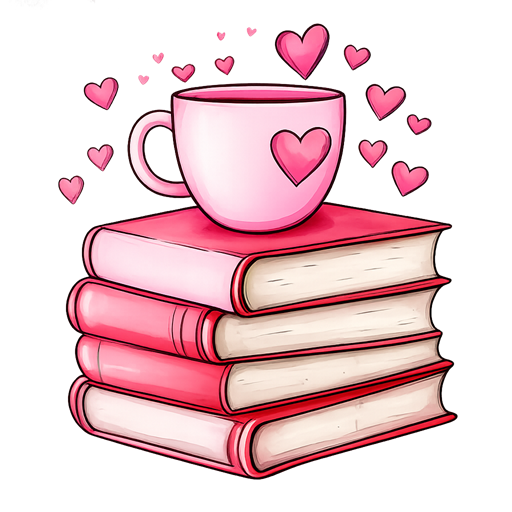
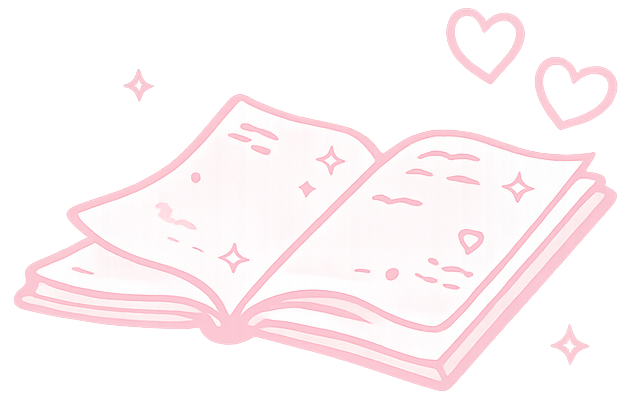
feat: implement GameMissions component for daily word search activity with fallback image handling

diff --git a/src/components/GameMissions.tsx b/src/components/GameMissions.tsx
@@ -16,10 +16,19 @@ import {
 } from "lucide-react";
 import { getDailyGamesState } from "@/lib/games";
 import type { WordSearchDifficulty } from "@/lib/wordSearchGenerator";
-import { getClubAssetUrl } from "@/lib/urls";
+import { getClubAssetUrl, getClubUrl } from "@/lib/urls";
 
 const GAME_IMAGE_PATH = "public/cacapalavras.png";
-const GAME_IMAGE = getClubAssetUrl(GAME_IMAGE_PATH);
+
+const IMAGE_FALLBACKS = [
+  getClubAssetUrl(GAME_IMAGE_PATH),
+  getClubUrl("cacapalavras.png"),
+  "/clubedascolecionadoras/cacapalavras.png",
+  "/cacapalavras.png",
+  "public/cacapalavras.png",
+  "/public/cacapalavras.png",
+  "cacapalavras.png",
+];
 
 const UPCOMING = [
   { name: "Jogo da Memória", description: "Encontre os pares de figurinhas.", Icon: Grid3X3 },
@@ -56,6 +65,16 @@ export default function GameMissions() {
   const [showRules, setShowRules] = useState(false);
   const [carouselIndex, setCarouselIndex] = useState(0);
   const [carouselPaused, setCarouselPaused] = useState(false);
+  const [imgIndex, setImgIndex] = useState(0);
+  const [imgError, setImgError] = useState(false);
+
+  const handleImgError = () => {
+    if (imgIndex < IMAGE_FALLBACKS.length - 1) {
+      setImgIndex((prev) => prev + 1);
+    } else {
+      setImgError(true);
+    }
+  };
 
   useEffect(() => {
     let active = true;
@@ -115,12 +134,18 @@ export default function GameMissions() {
       </div>
 
       <article className="relative overflow-hidden rounded-[28px] border border-pink-300/80 bg-gradient-to-br from-white via-[#fffafd] to-[#fff0f7] p-5 shadow-[0_12px_35px_rgba(158,27,74,0.09)] dark:from-[#1a0718] dark:via-[#180615] dark:to-[#22091b] sm:p-7 lg:p-8">
-        <img
-          src={GAME_IMAGE}
-          alt=""
-          aria-hidden="true"
-          className="game-mission-hero-image absolute right-3 top-3 h-[112px] w-[112px] object-contain"
-        />
+        {!imgError ? (
+          <img
+            src={IMAGE_FALLBACKS[imgIndex]}
+            alt="Caça-Palavras Sáfico"
+            onError={handleImgError}
+            className="game-mission-hero-image absolute right-3 top-3 h-[112px] w-[112px] select-none pointer-events-none object-contain"
+          />
+        ) : (
+          <div className="game-mission-hero-image absolute right-3 top-3 flex h-[112px] w-[112px] items-center justify-center rounded-2xl bg-pink-100/60 p-4 text-[#9e1b4a]">
+            <Gamepad2 className="h-12 w-12 opacity-80" />
+          </div>
+        )}
 
         <div className="game-mission-layout">
           <div className="game-mission-content min-w-0">
